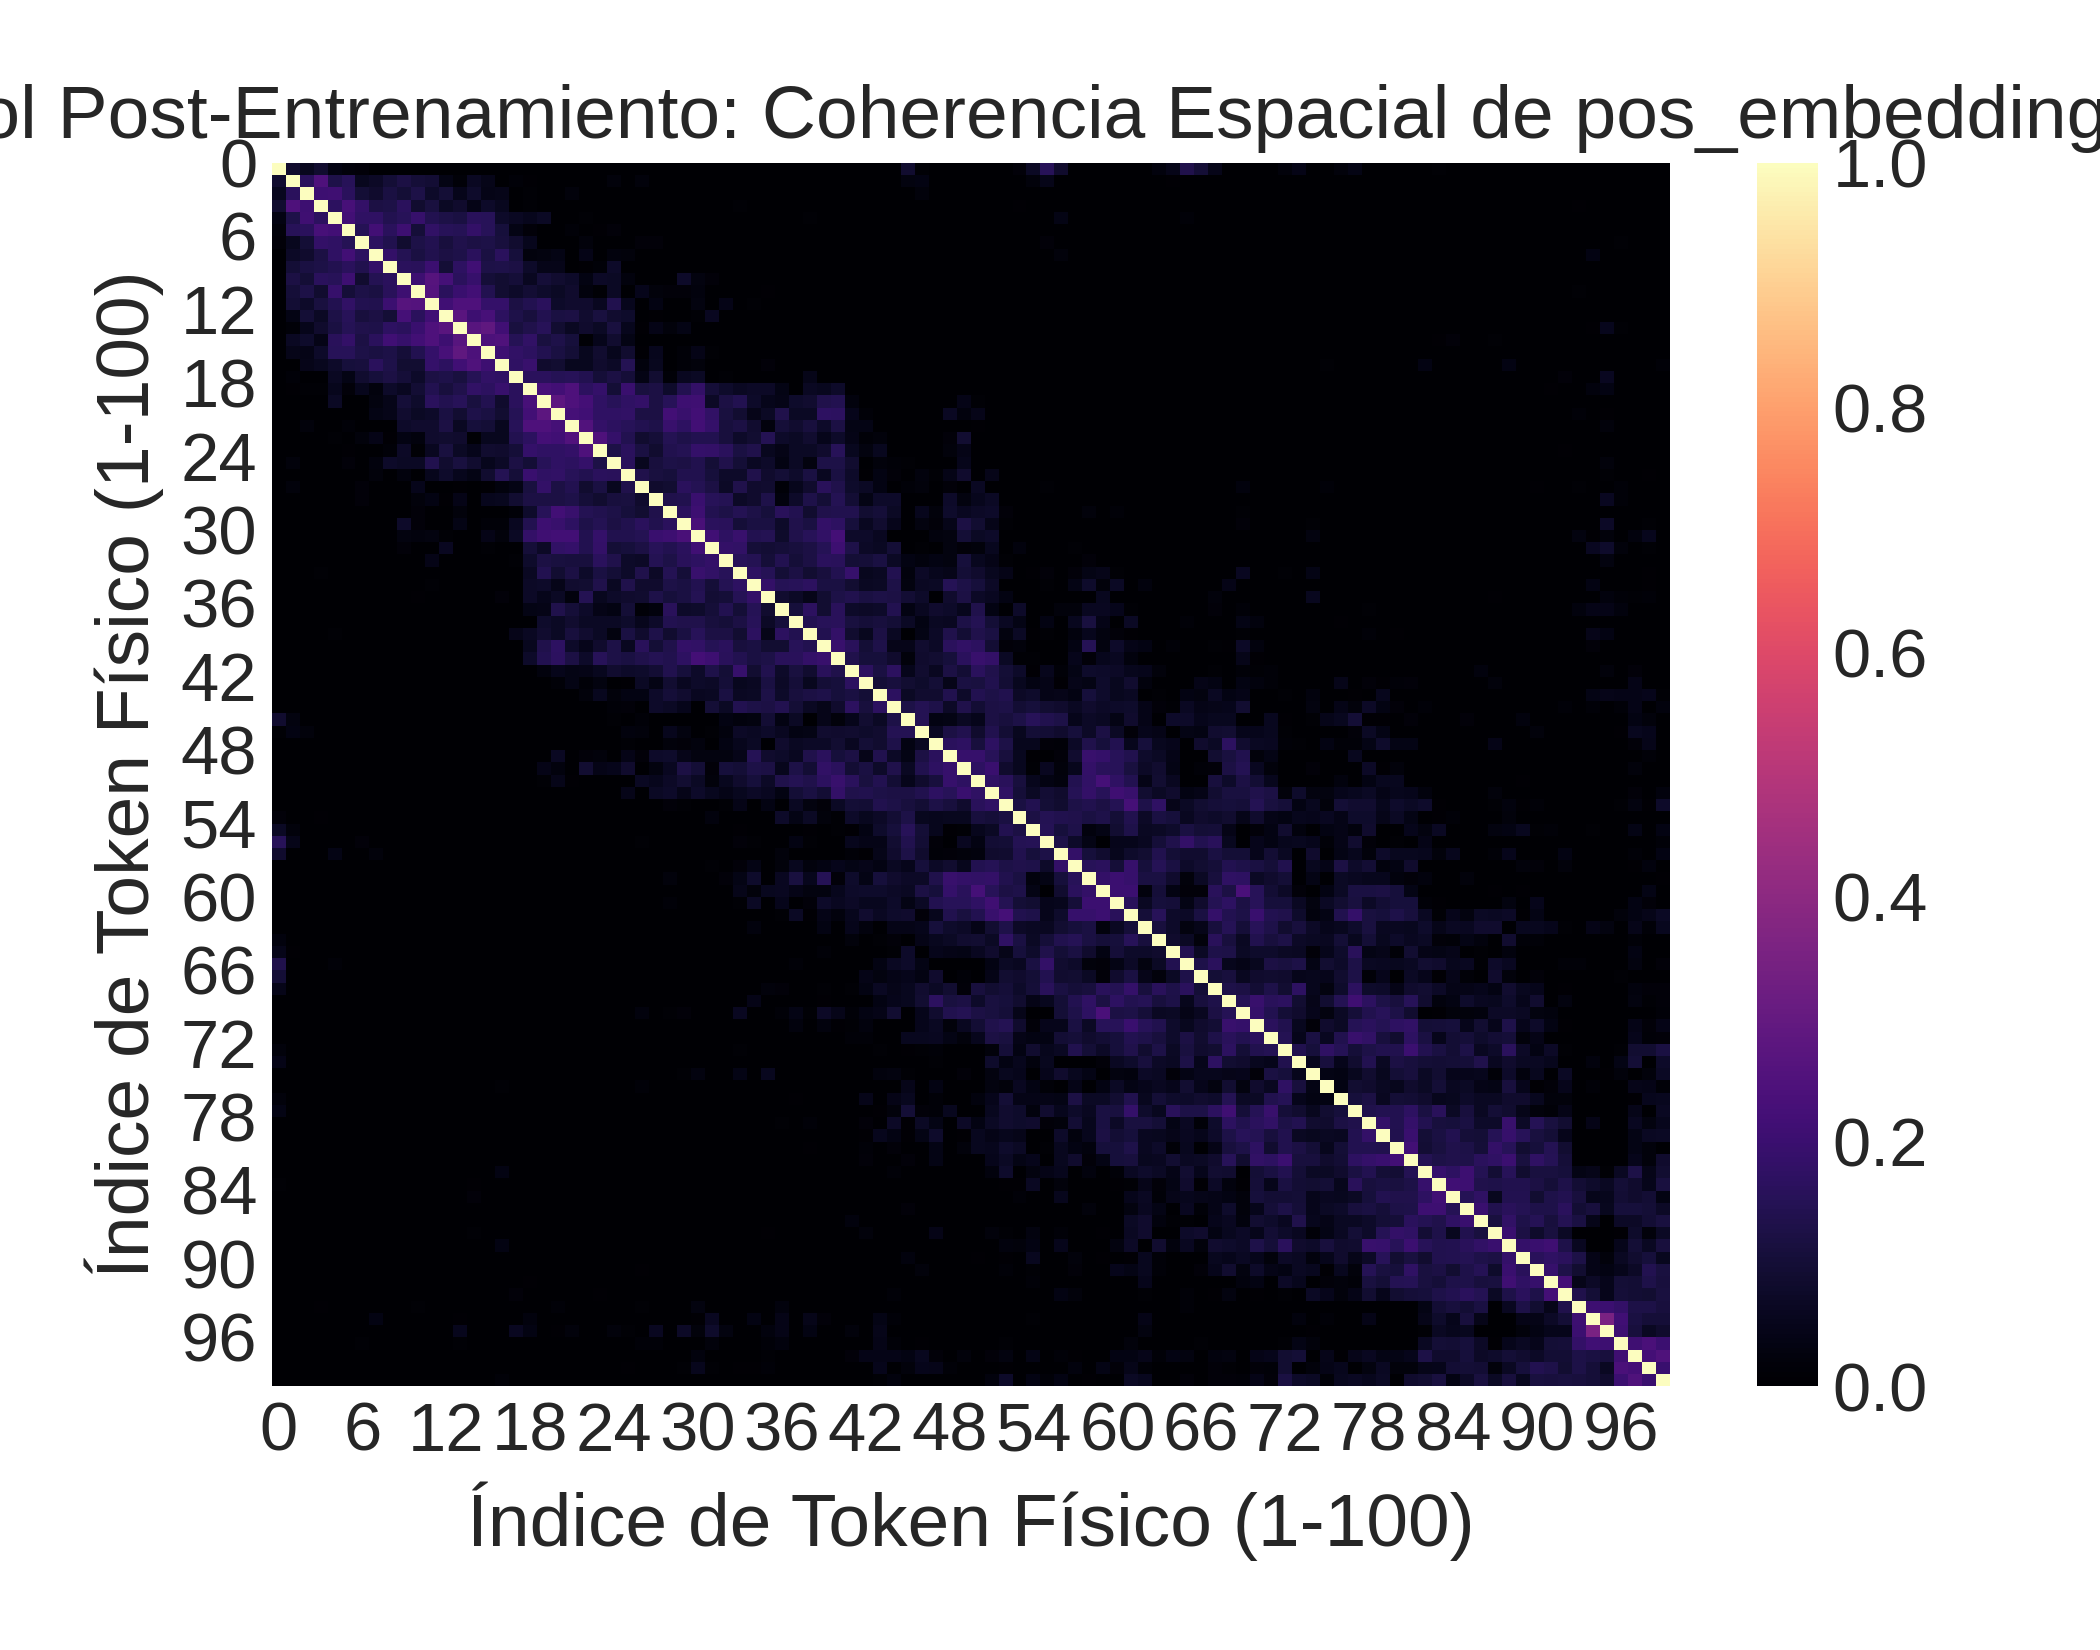
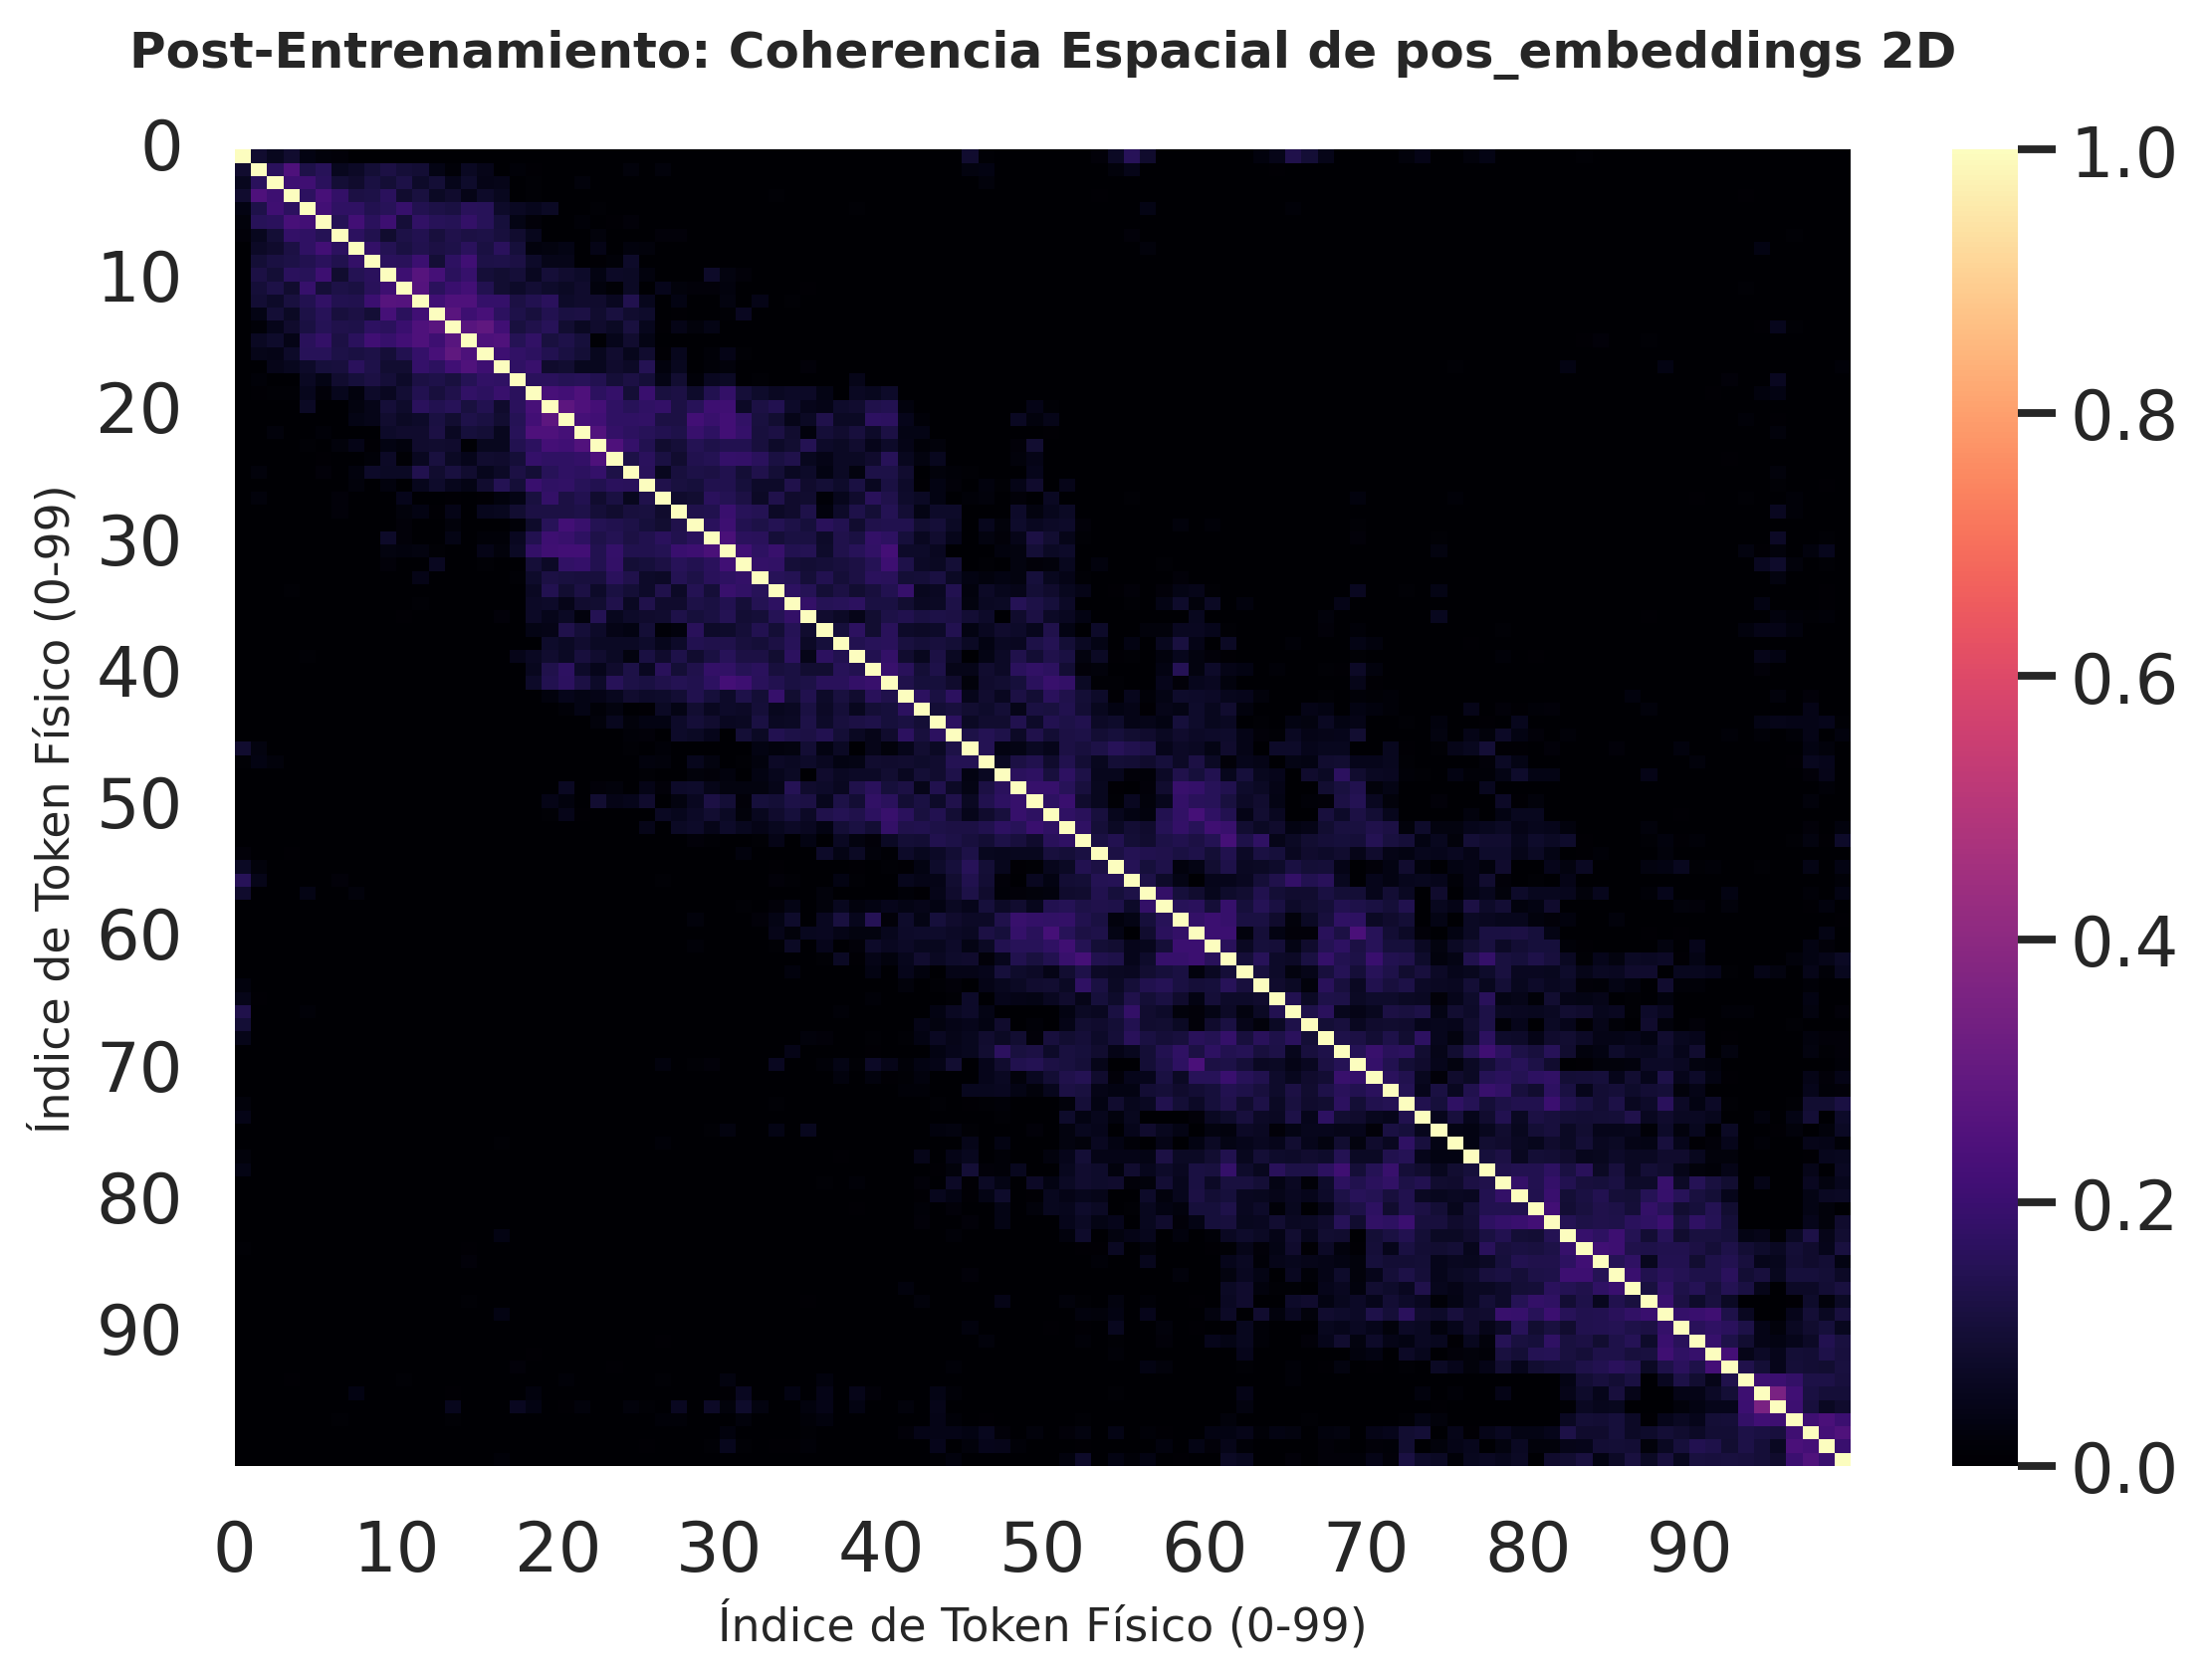
docs: Actualización Readme

Changed region(s): [[0.0, 0.0, 1.0, 0.9891]]

diff --git a/README.md b/README.md
@@ -1,26 +1,27 @@
-# 🧠 Vision-Language Model para Generación de Informes Clínicos Radiológicos
+# 🧠 Vision-Language Model para la Generación Autorregresiva de Informes Radiológicos
 
-Proyecto de Fin de Grado en Ingeniería Informática (ETSIIT - UGR)  
+**Proyecto de Fin de Grado en Ingeniería Informática (ETSIIT - Universidad de Granada)**  
 **Autor:** Rafael Carrillo Arroyo
 
 ---
 
 ## 📋 Resumen Ejecutivo
-Este proyecto implementa un pipeline multimodal avanzado que fusiona visión por computador y procesamiento de lenguaje natural (NLP) para la redacción autorregresiva de informes radiológicos. El sistema aborda los desafíos del **sesgo de normalidad** y la **desalineación de dominio** mediante una arquitectura dividida en tres fases de ingeniería estricta.
+La presente memoria detalla el diseño, desarrollo y evaluación empírica de un *pipeline* multimodal avanzado que integra visión por computador y procesamiento de lenguaje natural (NLP) para la redacción automatizada de informes radiológicos. El sistema aborda y mitiga los desafíos inherentes del **sesgo de normalidad** (*prior* lingüístico) y la **desalineación de dominio** mediante una arquitectura modular dividida en tres fases de ingeniería estricta y auditoría continua.
 
 ---
 
 ## 🏗️ Arquitectura del Sistema: Pipeline de 3 Fases
-### FASE 1: Codificador Visual Clínico (Extractor Espacial)
-**Objetivo:** Construcción de unos cimientos visuales universales y robustos que codifiquen la anatomía radiológica preservando estrictamente la topología espacial, generando el vocabulario base para el modelo generativo.
+
+### FASE 1: Codificador Visual Clínico (Extracción de Características Espaciales)
+**Objetivo:** Desarrollar una arquitectura base visual y robusta capaz de codificar la anatomía radiológica preservando la topología espacial, generando así un vocabulario fundacional para el modelo generativo.
 
 **Estrategia Arquitectónica y de Optimización:**
-* *Backbone Médico:* Adaptación de una red **DenseNet121** mediante *Weight Surgery* (trasplante de pesos preentrenados y adaptación a entrada monocanal).
-* *Preservación Topológica:* Se extirpa deliberadamente la capa de *Global Average Pooling* extrayendo una **cuadrícula espacial de 10x10** (100 tokens visuales continuos de 1024 canales) capaz de aislar regiones anatómicas concretas.
-* *Blindaje Estadístico:* Aprendizaje multietiqueta en paralelo (14 patologías) combatiendo el desbalanceo extremo (*Long-Tail*) mediante pérdida asimétrica ponderada (BCE + Pos-Weight) y mapeo de incertidumbre clínico (*Soft Targets*).
+* **Backbone Médico:** Adaptación de una red convolucional **DenseNet121** mediante *Weight Surgery* (transferencia de pesos preentrenados y adaptación a entrada monocanal).
+* **Preservación Topológica:** Sustitución de la capa de *Global Average Pooling* convencional para extraer una **cuadrícula espacial de 10x10** (100 tokens visuales continuos de 1024 canales), aislando regiones anatómicas específicas.
+* **Mitigación del Desbalanceo:** Aprendizaje multietiqueta concurrente (14 patologías) para combatir el desbalanceo extremo (*Long-Tail*) mediante la aplicación de una función de pérdida asimétrica ponderada (BCE + Pos-Weight) y el mapeo de incertidumbre clínica (*Soft Targets*).
 
 **Rendimiento Global y Robustez (Cohorte de Test):**
-El modelo demuestra una alta capacidad de separación estadística global (ROC), manteniendo la robustez estructural frente al desbalanceo masivo de clases sanas, como certifica la curva PR. 
+El modelo demuestra una alta capacidad de separación estadística global, manteniendo la integridad estructural frente a la prevalencia masiva de clases sanas, tal como certifica el análisis del área bajo la curva de precisión-exhaustividad (PR AUC).
 
 <div align="center">
   <img src="assets/Resultados_Evaluacion/Modulo_1/test/curvas_roc_test_finales.png" width="48%" alt="Curva ROC Conjunta Multietiqueta">
@@ -28,77 +29,89 @@ El modelo demuestra una alta capacidad de separación estadística global (ROC),
 </div>
 
 **Rendimiento Neto Clínico (F1-Score):**
-El análisis del F1-Score sobre el Test Set confirma un rendimiento de grado clínico en patologías sólidas y derrames, donde el modelo exhibe su mayor fiabilidad diagnóstica.
+El análisis sobre el conjunto de prueba confirma un rendimiento de grado clínico, exhibiendo su mayor fiabilidad diagnóstica en patologías parenquimatosas sólidas y derrames.
 
 <div align="center">
   <img src="assets/Resultados_Evaluacion/Modulo_1/test/f1_scores_test.png" width="75%" alt="Gráfico de barras F1-Score">
 </div>
 
-📄 **[Ver tabla completa de métricas clínicas y umbrales (CSV)](assets/Resultados_Evaluacion/Modulo_1/test/metricas_clinicas_test.csv)**
+📄 **[Consultar tabla completa de métricas clínicas y umbrales (CSV)](assets/Resultados_Evaluacion/Modulo_1/test/metricas_clinicas_test.csv)**
 
 > **Explicabilidad y Auditoría Visual (Grad-CAM):**
 > ![Showcase Grad-CAM](assets/Resultados_Evaluacion/Modulo_1/test/GradCAM/gradcam_showcase_readme.png)
-> *El mapeo térmico de activación certifica que la DenseNet121 localiza la patología real (ej. Derrame Pleural, Edema, Atelectasia) de forma matemática, evadiendo el "Shortcut Learning" o sesgo de instrumental.*
----
-### FASE 2: Puente Multimodal y Alineamiento Geométrico (Alineamiento Visual-Lingüístico Pure)
-**Objetivo:** Establecer el nexo de unión entre el extractor visual congelado y el decodificador de lenguaje (BioGPT). Esta fase opera bajo el protocolo de "Alineamiento Puro": el LLM se mantiene estrictamente congelado, y toda la responsabilidad de proyectar la semántica visual hacia el espacio sintáctico del LLM recae en un proyector multimodal (MLP) asistido por inyección de Embeddings Posicionales 2D aprendidos.
+> *El mapeo térmico de activación certifica que la red localiza la patología anatómica real (ej. Derrame Pleural, Edema, Atelectasia) de forma matemática, evadiendo correlaciones espurias o sesgos instrumentales (Shortcut Learning).*
 
-**Éxito de Ingeniería y Auditoría Matemática (Cohorte Test $N=380$):**
-El diseño del puente multimodal (MLP + LayerNorm + Centrado Dinámico) logró estabilizar perfectamente la matemática de la inyección visual sin saturar la red receptora.
-* **Inmutabilidad del LLM:** $\text{Max-Diff} = 0.00$ (Certificación total de BioGPT congelado).
-* **Estabilidad Energética:** Norma L2 estabilizada en **32.22** (Previene la saturación matemática de la capa Softmax).
-* **Salud del Espacio Latente (Mitigación del "Efecto Cono"):** La similitud coseno centrada se desplomó a un **0.0005**, logrando una dispersión isótropa óptima y destruyendo la anisotropía nativa de los LLMs.
+---
+
+### FASE 2: Puente Multimodal y Alineamiento Geométrico
+**Objetivo:** Establecer el nexo de proyección entre el extractor visual y el decodificador de lenguaje (BioGPT). Esta fase opera bajo un protocolo de "Alineamiento Puro": el LLM se mantiene estrictamente congelado, recayendo la responsabilidad de proyectar la semántica visual hacia el espacio sintáctico en un perceptrón multicapa (MLP) asistido por *Embeddings* Posicionales 2D.
+
+**Validación Arquitectónica y Estabilidad (Cohorte Test N=380):**
+El diseño del puente multimodal (MLP + LayerNorm + Centrado Dinámico) logra estabilizar la inyección visual sin producir saturación en la red receptora.
+* **Inmutabilidad del LLM:** Diferencia máxima absoluta nula (`Max-Diff = 0.00`), garantizando la preservación de los pesos originales de BioGPT.
+* **Estabilidad Energética:** Norma L2 acotada en **32.22**, previniendo la saturación matemática de la capa Softmax.
+* **Mitigación del "Efecto Cono":** Reducción drástica de la similitud coseno centrada a **0.0005**, garantizando una dispersión isótropa óptima y mitigando la anisotropía inherente de los modelos de lenguaje.
 
 > **Demostración Geométrica de la Coherencia Espacial:**
 > <div align="center">
 >   <img src="assets/Resultados_Evaluacion/Modulo_2/post_auditoria_topologica_2d.png" width="60%" alt="Matriz de Afinidad Topológica pos_embeddings">
 > </div>
 > 
-> *Esta matriz de afinidad demuestra empíricamente que el modelo ha aprendido una topología bidimensional sobre una secuencia plana. Las bandas paralelas a la diagonal principal confirman correlaciones geométricas (ej. correlación entre el token físico 5 y el 15, o el 25), lo que demuestra que el proyector entiende la anatomía de una radiografía 10x10 sin supervisión explícita.*
+> *La matriz de afinidad evidencia empíricamente el aprendizaje de una topología bidimensional sobre una secuencia plana. Las bandas paralelas a la diagonal principal reflejan correlaciones geométricas consistentes, demostrando que el proyector interioriza la estructura anatómica de la radiografía sin supervisión espacial explícita.*
 
-**La Paradoja del "Proyector Puro": Confirmación de la Inercia Lingüística**
-A pesar de la impecable ejecución geométrica y de ingeniería, la evaluación clínica revela una **Tasa Macro de Captura Patológica crítica del 6.69%**. Al estar BioGPT congelado, su fuerte *prior* lingüístico de preentrenamiento domina por completo sobre la señal visual, forzando al modelo a redactar reportes de normalidad genéricos incluso ante lesiones severas.
+**Análisis de Inercia Lingüística y "Ceguera Clínica":**
+A pesar de la correcta alineación geométrica, la evaluación clínica arroja una **Tasa Macro de Captura Patológica crítica del 6.69%**. La conservación inmutable de BioGPT provoca que su fuerte sesgo lingüístico (*prior* de normalidad) eclipse la señal visual, resultando en la generación de informes genéricos de normalidad incluso ante evidencias de lesiones severas.
 
-> **⚠️ Ejemplo de Alucinación por "Sesgo de Normalidad" (Paciente con fracturas y derrame):**
-> * **[REAL]:** *"Findings: Cardiomediastinal contours are unchanged. There are stable fractures... Pleural effusion..."*
-> * **[GENERADO]:** *"Normal, the heart is in normal site. No cardiomegaly or pleural effusion. Impression: The chest is clear."*
+> **⚠️ Ejemplo de Alucinación por Sesgo de Normalidad (Paciente con fracturas y derrame):**
+> * **[INFORME ORIGINAL]:** *"Findings: Cardiomediastinal contours are unchanged. There are stable fractures... Pleural effusion..."*
+> * **[TEXTO GENERADO]:** *"Normal, the heart is in normal site. No cardiomegaly or pleural effusion. Impression: The chest is clear."*
 
-**Veredicto Metodológico:** El alineamiento puro es incapaz de romper la inercia lingüística del LLM. Este descubrimiento empírico valida la hipótesis de la memoria y hace metodológicamente imperativa la transición a la **FASE 3 (Inyección de LoRA)** para intervenir la corteza de atención de BioGPT y recuperar la sensibilidad diagnóstica médica.
+**Veredicto Metodológico:** El alineamiento unimodal de proyección pura resulta insuficiente para quebrar la inercia del modelo de lenguaje. Este hallazgo empírico valida la hipótesis de partida y fundamenta la necesidad de la transición hacia la **FASE 3**, introduciendo adaptación de dominio en el LLM.
 
 ---
 
-### FASE 3: Sincronización Clínica Autorregresiva (LoRA y Focal Loss)
-**Objetivo:** Superar el Sesgo de Normalidad de la Fase 2 dotando a **BioGPT** de adaptabilidad diagnóstica fina, aprovechando su mente médica preentrenada (PubMed) sin destruir la geometría del espacio latente estabilizado.
+### FASE 3: Adaptación de Dominio y Generación Condicionada (LoRA)
+**Objetivo:** Erradicar el sesgo de normalidad detectado en la fase anterior mediante la inyección de adaptadores de bajo rango (**LoRA**) en las capas de auto-atención de BioGPT-Large. Se aplica un proceso de *Fine-Tuning* Supervisado (SFT) para modular la atención diagnóstica, condicionando estrictamente la generación de texto a la señal topográfica visual.
 
-**Estrategia Quirúrgica:**
-* **Intercepción PEFT/LoRA:** Rango ampliado ($r=32, \alpha=64$) dirigido a la corteza atencional (`q_proj`, `k_proj`, `v_proj`, `out_proj`), ajustando solo un $\approx 1.5\% - 2\%$ de los parámetros para prevenir el olvido catastrófico.
-* **Estabilización del Gradiente:** Uso de **Focal Loss Autorregresiva** ($\gamma=2.0, \alpha=1.0$) para destruir la inercia estadística de los tokens sanos.
+**Auditoría de Plasticidad Visual y Coherencia Semántica (Cohorte Test N=380):**
+El protocolo de ablación visual (*Blind Masking*) corrobora el éxito de la intervención algorítmica, evidenciando la transición de un modelo lingüísticamente inercial a uno dependiente del estímulo visual.
 
-**Resultados Consolidados (Cohorte Ciega $N=380$):**
-* **Soberanía Visual:** Índice de Dependencia Visual (**Macro-VDI**) de **0.8333**. El 83.33% de la variabilidad lexicográfica está gobernada por los píxeles.
-* **Disociación Metrológica NLG:** Convergencia semántica profunda alcanzando un **BERTScore F1 de 0.8777**.
-* **Relevancia Clínica (BART Zero-Shot NLI):** Rendimiento SOTA en patologías sólidas: Opacidad Pulmonar (**78.94%**), Consolidación (**73.03%**) y Alteraciones Pleurales (**71.08%**). 
+* **Índice de Dependencia Visual (VDI Macro): 0.8333.** Este umbral confirma que el sistema fundamenta más del 83% de su inferencia semántica en la radiografía de entrada.
+* **Calidad Semántica Contextual:** Se obtiene un BERTScore F1 de **0.8777** (Escala Absoluta), asegurando una sintaxis fluida y consistente con la terminología clínica humana.
 
-> **Convergencia y Reportes Clínicos (NLG & NLI):**
-> ![Convergencia Fase 3](assets/Resultados_Evaluacion/Modulo_3/convergencia_fase3_lora.png)
-> *Tablas detalladas de la evaluación final:*
-> - 📄 [Ver Métricas de Generación NLG (BLEU, ROUGE, BERTScore)](assets/Resultados_Evaluacion/Modulo_3/metricas_generacion_nlg.csv)
-> - 🏥 [Ver Resultados de la Auditoría Clínica BART NLI](assets/Resultados_Evaluacion/Modulo_3/resultados_auditoria_F1_BART_fase3.csv)
-> - 🔬 [Ver Métricas Clínicas Finales](assets/Resultados_Evaluacion/Modulo_3/metricas_clinicas_bart.csv)
+**Rendimiento Diagnóstico Neto (Auditoría Zero-Shot NLP con BART):**
+Para validar la fidelidad clínica de los informes generados, se realizó una extracción automatizada de patologías mediante un modelo externo (BART-Large-MNLI) en configuración *Zero-Shot*, comparando las entidades redactadas por el sistema frente al *Ground Truth*.
+
+El modelo exhibe una alta capacidad para documentar alteraciones morfológicas directamente en lenguaje natural:
+
+<div align="center">
+  <img src="assets/Resultados_Evaluacion/Modulo_3/f3_f1_scores_clinicos.png" width="75%" alt="F1-Score Clínico de Textos Generados">
+</div>
+
+*Se observan resultados sobresalientes en patologías de alta relevancia clínica como la **Opacidad Pulmonar (F1: 0.7894)**, la **Consolidación (F1: 0.7303)** y la **Atelectasia (F1: 0.6779)**.*
+
+**Auditoría Epidemiológica (Distribución Observada vs. Generada):**
+El contraste de soporte demuestra la superación del colapso de inferencia (tendencia a predecir "Estudio Normal"). El modelo aproxima con gran precisión la distribución multietiqueta real presente en la cohorte clínica.
+
+<div align="center">
+  <img src="assets/Resultados_Evaluacion/Modulo_3/f3_distribucion_casos.png" width="75%" alt="Distribución Real vs IA">
+</div>
+
+📄 **[Consultar reporte detallado de validación clínica cruzada (CSV)](assets/Resultados_Evaluacion/Modulo_3/metricas_clinicas_bart.csv)**
 
 ---
 
 ## 📂 Recursos y Estructura del Repositorio
 
-🔗 **[Acceso al Google Drive del Proyecto (Datasets y Pesos)](https://drive.google.com/drive/folders/190Xspevq_DuxQ3TelS3kAR5PC_xw6rMz?usp=sharing)**
+🔗 **[Acceso al repositorio de datos en Google Drive (Datasets, Pesos y Logs)](https://drive.google.com/drive/folders/190Xspevq_DuxQ3TelS3kAR5PC_xw6rMz?usp=sharing)**
 
 ```text
 TFG-Vision-Language-Clinical-Reports/
-├── notebooks/       # Cuadernos modulares ejecutables (Fase 1, 2 y 3)
-├── assets/          #
-│   ├── Resultados_EDA/         # Gráficas de análisis exploratorio (CheXpert & Indiana)
-│   └── Resultados_Evaluacion/  # Matrices, curvas ROC y métricas (Módulo 1, 2 y 3)
-├── checkpoints/     # [Drive] Tensores de pesos (.pth) y adaptadores LoRA
-├── data/            # [Drive] Espacio SSD para datasets clínicos estructurados
-├── outputs/         # [Drive] Logs brutos
-└── README.md        # Documentación arquitectónica
+├── notebooks/       # Implementación base: Cuadernos modulares ejecutables (Fases 1, 2 y 3)
+├── assets/          # Repositorio de recursos gráficos
+│   ├── Resultados_EDA/         # Visualizaciones del análisis exploratorio (CheXpert & Indiana)
+│   └── Resultados_Evaluacion/  # Curvas de rendimiento, matrices y análisis XAI
+├── checkpoints/     # [Drive] Pesos del modelo entrenado (.pth) y tensores adaptadores LoRA
+├── data/            # [Drive] Entorno SSD para ingesta de datasets clínicos estructurados
+├── outputs/         # [Drive] Registros de ejecución y logs de entrenamiento en crudo
+└── README.md        # Documentación arquitectónica e índice del proyecto